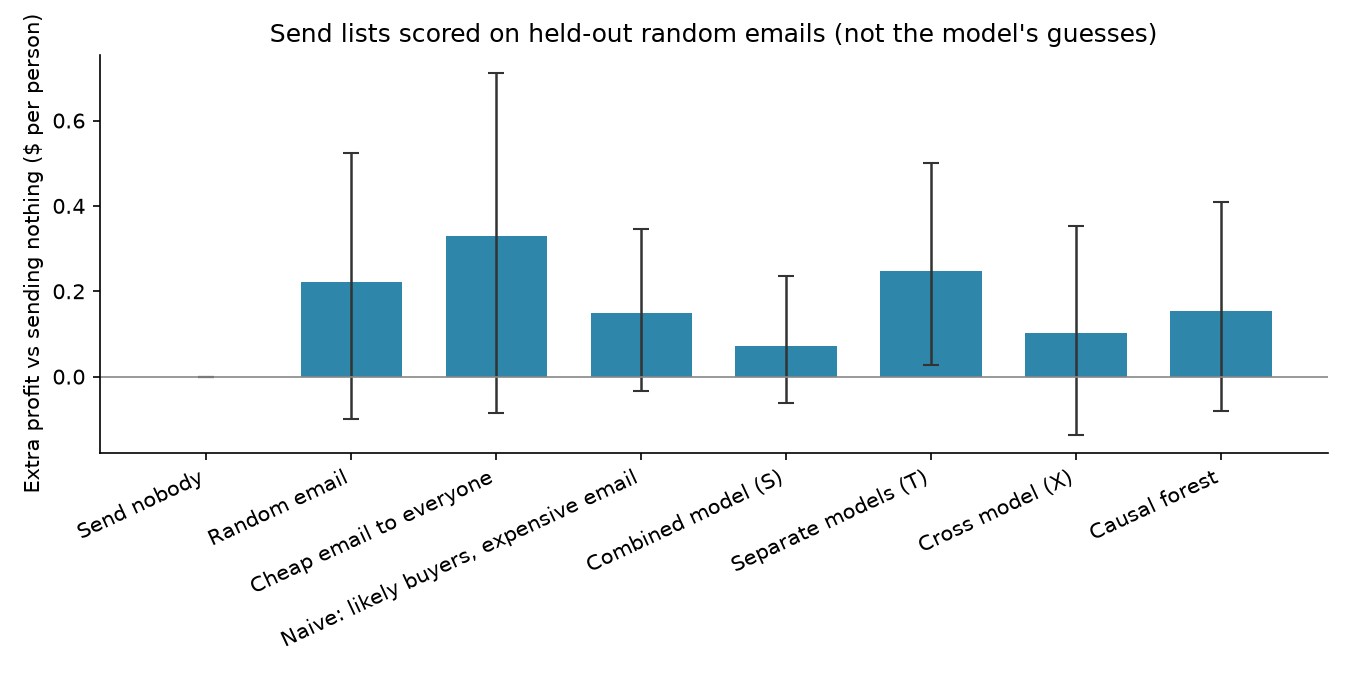
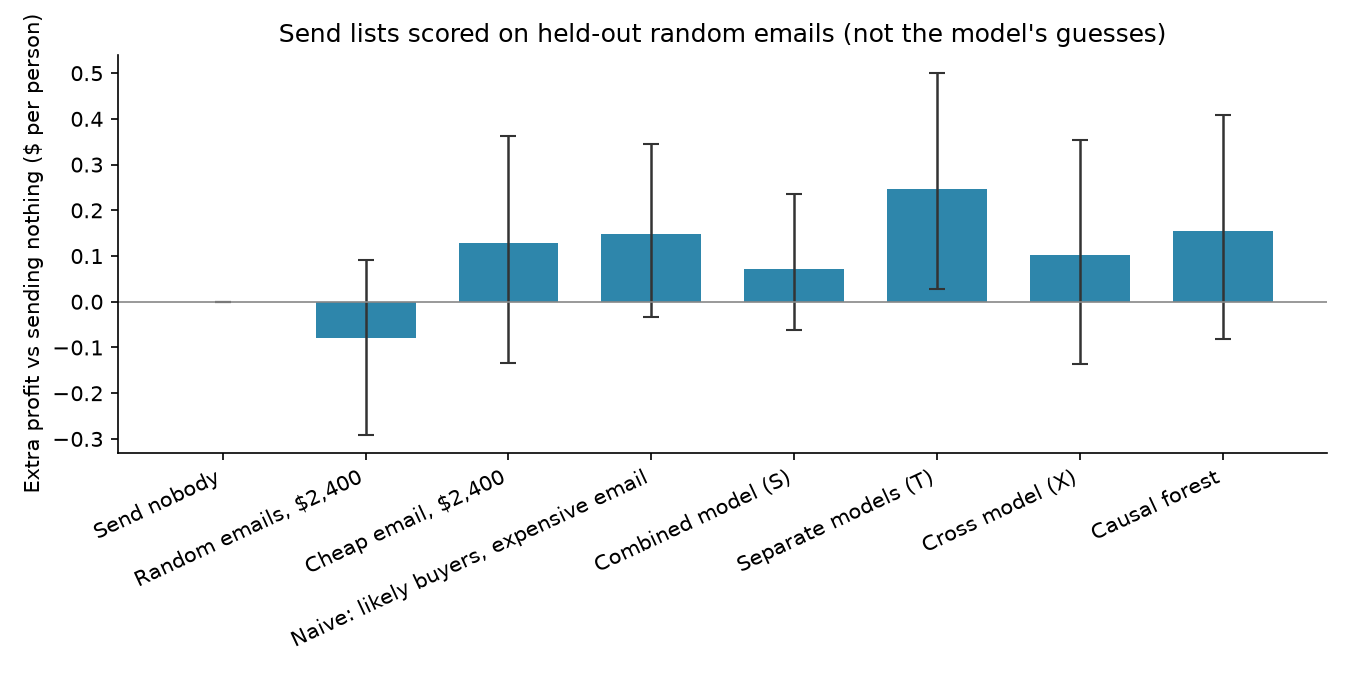
Compare every send list under the same ,400 budget

diff --git a/src/causal_uplift/report.py b/src/causal_uplift/report.py
@@ -8,7 +8,11 @@ from pathlib import Path
 import pandas as pd
 
 from causal_uplift.allocation import allocate_from_result, allocation_summary
-from causal_uplift.baselines import naive_propensity_policy
+from causal_uplift.baselines import (
+    cheap_until_budget,
+    naive_propensity_policy,
+    random_until_budget,
+)
 from causal_uplift.data import FIGURES_DIR, PROJECT_ROOT, load_and_split
 from causal_uplift.economics import (
     ARM_CONTROL,
@@ -17,15 +21,15 @@ from causal_uplift.economics import (
     budget_for_n,
 )
 from causal_uplift.effects import fit_all_cate_models
-from causal_uplift.grading import PolicyEvaluator, constant_policy, random_policy
+from causal_uplift.grading import PolicyEvaluator, constant_policy
 from causal_uplift.plots import save_money_chart
 
 METRICS_PATH = PROJECT_ROOT / "results" / "metrics.json"
 
 POLICY_LABELS = {
     "treat_nobody": "Send nobody",
-    "random": "Random email",
-    "always_womens": "Cheap email to everyone",
+    "random": "Random emails, $2,400",
+    "cheap": "Cheap email, $2,400",
     "naive": "Naive: likely buyers, expensive email",
     "uplift_s_learner": "Combined model (S)",
     "uplift_t_learner": "Separate models (T)",
@@ -36,7 +40,7 @@ POLICY_LABELS = {
 CHART_ORDER = [
     "treat_nobody",
     "random",
-    "always_womens",
+    "cheap",
     "naive",
     "uplift_s_learner",
     "uplift_t_learner",
@@ -85,8 +89,8 @@ def write_report(
 
     policies = {
         "treat_nobody": constant_policy(len(grade), ARM_CONTROL),
-        "random": random_policy(len(grade)),
-        "always_womens": constant_policy(len(grade), ARM_WOMENS),
+        "random": random_until_budget(len(grade), budget),
+        "cheap": cheap_until_budget(len(grade), budget),
         "naive": naive_propensity_policy(build, grade),
     }
     for name, cate in cates.items():
@@ -107,7 +111,7 @@ def write_report(
                 "n_mens": mix["n_mens"],
                 "n_control": mix["n_control"],
                 "spent": mix["spent"],
-                "budget_constrained": name in {"naive"} or name.startswith("uplift_"),
+                "budget_constrained": name != "treat_nobody",
             }
         )
         rows.append(scored)

diff --git a/src/causal_uplift/baselines.py b/src/causal_uplift/baselines.py
@@ -60,6 +60,48 @@ def naive_propensity_policy(
     return policy
 
 
+def cheap_until_budget(
+    n: int,
+    budget: float | None = None,
+    random_state: int = RANDOM_STATE,
+) -> np.ndarray:
+    """Send the cheap women's email until the budget is gone. Same pot as the models."""
+    remaining = float(budget if budget is not None else budget_for_n(n))
+    policy = np.full(n, ARM_CONTROL, dtype=object)
+    rng = np.random.default_rng(random_state)
+    for i in rng.permutation(n):
+        cost = COSTS[ARM_WOMENS]
+        if cost > remaining + 1e-9:
+            break
+        policy[i] = ARM_WOMENS
+        remaining -= cost
+    return policy
+
+
+def random_until_budget(
+    n: int,
+    budget: float | None = None,
+    random_state: int = RANDOM_STATE,
+) -> np.ndarray:
+    """Walk people in random order; pick men's or women's at random if it still fits."""
+    remaining = float(budget if budget is not None else budget_for_n(n))
+    policy = np.full(n, ARM_CONTROL, dtype=object)
+    rng = np.random.default_rng(random_state)
+    paid = [ARM_WOMENS, ARM_MENS]
+    for i in rng.permutation(n):
+        rng.shuffle(paid)
+        first, second = paid
+        if COSTS[first] <= remaining + 1e-9:
+            policy[i] = first
+            remaining -= COSTS[first]
+        elif COSTS[second] <= remaining + 1e-9:
+            policy[i] = second
+            remaining -= COSTS[second]
+        if remaining + 1e-9 < min(COSTS[ARM_WOMENS], COSTS[ARM_MENS]):
+            break
+    return policy
+
+
 def policy_cost(policy: np.ndarray) -> float:
     return float(sum(COSTS[a] for a in policy))
 

diff --git a/tests/test_baselines.py b/tests/test_baselines.py
@@ -1,8 +1,14 @@
 """Naive spend-propensity targeting, graded honestly."""
 
-from causal_uplift.baselines import naive_propensity_policy, policy_cost, policy_mix
+from causal_uplift.baselines import (
+    cheap_until_budget,
+    naive_propensity_policy,
+    policy_cost,
+    policy_mix,
+    random_until_budget,
+)
 from causal_uplift.data import load_and_split
-from causal_uplift.economics import ARM_CONTROL, ARM_MENS, budget_for_n
+from causal_uplift.economics import ARM_CONTROL, ARM_MENS, ARM_WOMENS, COSTS, budget_for_n
 from causal_uplift.grading import PolicyEvaluator
 
 
@@ -28,3 +34,19 @@ def test_naive_policy_is_gradable():
     assert ARM_MENS in mix.index
     # A finite number with a CI — not a circular Σ predicted uplift.
     assert result.ipw_ci_low < result.ipw_ci_high
+
+
+def test_cheap_and_random_respect_the_same_budget():
+    _, grade = load_and_split()
+    n = len(grade)
+    budget = budget_for_n(n)
+    cheap = cheap_until_budget(n, budget)
+    random = random_until_budget(n, budget)
+
+    assert policy_cost(cheap) <= budget + 1e-9
+    assert policy_cost(random) <= budget + 1e-9
+    assert (cheap == ARM_WOMENS).sum() == round(budget / COSTS[ARM_WOMENS])
+    assert (cheap == ARM_MENS).sum() == 0
+    assert (random == ARM_WOMENS).any()
+    assert (random == ARM_MENS).any()
+    assert (random == ARM_CONTROL).any()

diff --git a/README.md b/README.md
@@ -1,43 +1,46 @@
 # Causal Uplift + Budget Allocation
 
-A company can send each customer a **men’s-product email** ($0.50), a **women’s-product email** ($0.20), or nothing. There is not enough money to give everyone the expensive one. This project:
+A marketing team has a **limited budget**. The classic question is not “who is likely to buy?” It is “who should we contact so that each dollar of send cost causes the most leftover profit?” People who were going to buy anyway waste the budget. People who only buy because of the message are the ones worth paying for. That difference — extra sales *caused* by the contact — is **causal uplift**. This project estimates that extra, turns it into a send list under a hard budget, and grades the list with real experimental outcomes instead of the model’s own guesses.
 
-1. Estimates **who actually spends more because of which email** (not who was going to buy anyway).
-2. Spends a **fixed budget** where each dollar of send cost is expected to cause the most leftover profit.
-3. Grades every send list with **held-out random emails and real spending**, not the model’s own guesses.
-
-Public data: Kevin Hillstrom’s MineThatData email experiment (~64k customers, random 1/3 assignment). Economics are imposed in code (`$0.20` / `$0.50` send costs; budget = 15% of “men’s email to everyone,” **$2,400** on a 32k holdout). Choices and grading method: [METHODS.md](METHODS.md).
+The specific setting is Kevin Hillstrom’s MineThatData email experiment: about 64,000 customers randomly assigned, one-third each, to a **men’s-product email**, a **women’s-product email**, or **nothing**. We impose send costs the raw file does not have: **$0.50** for the men’s email, **$0.20** for the women’s email. On a 32,000-person holdout, the budget is **$2,400** — 15% of what it would cost to send the expensive email to everyone — so the plan has to choose. Details: [METHODS.md](METHODS.md).
 
 ---
 
 ## The money chart
 
-Extra profit **per person vs sending nobody**, averaged over the whole 32k holdout (including people we do not email). Bars are the honest score; whiskers are a 95% range. Almost everyone spends $0, so the ranges are wide.
+Each bar answers the same question, under the same **$2,400** cap: **if we had followed this send list on the 32,000-person holdout, how much extra leftover profit would we have made per person, compared with emailing nobody?** Leftover profit is extra dollars spent minus send cost. People we skip count as $0, so the average is over the whole list. Whiskers are a 95% range. Almost everyone spends $0 after the campaign, so the ranges are wide.
 
 ![Honest extra profit by send list](results/figures/money_chart.png)
 
-“Cheap email to everyone” and “random email” are **not** under the $2,400 cap. They are reference plans. Everything labeled naive or “model” spends essentially the full **$2,400**.
+Every plan except “send nobody” spends the full $2,400. The first two rivals do not use a model:
+
+- **Random emails, $2,400** — walk the list in random order; send men’s or women’s at random if it still fits. About 3,400 of each. Slightly **below** nobody on this split; the range includes $0.
+- **Cheap email, $2,400** — women’s email to the 12,000 people the budget can buy, no targeting. About **13 cents** a person; the range includes $0.
+
+The rest try to pick *who* gets which email. The tallest of those is the separate-models (T) list, about **25 cents** a person. That is the same budget as blasting 12,000 cheap emails, not a bigger pot.
 
 ---
 
 ## Iteration log
 
-**Naive plan.** Ignore which email was sent. Predict who is likely to spend anyway. Blast the expensive men’s email at those people until the budget runs out: **4,800** contacts, **$0.15** extra profit per person. The range **includes $0**. Roughly break-even: paying to email people who were going to buy anyway.
+**Dumb plans that still spend $2,400.** Random mix: slightly negative. Cheap blast: 12,000 women’s emails, **$0.13**. Naive: ignore which email was sent, predict who will spend anyway, blast the expensive men’s email until the money runs out — **4,800** contacts, **$0.15**. The range includes $0. Roughly break-even: paying to email people who were going to buy anyway.
 
 **Effect-based plans.** Fit models on the other half of the data that estimate extra dollars from each email vs nothing. Rank person–email pairs by leftover profit per dollar of send cost. Skip emails whose leftover is zero or negative. Each person gets at most one email.
 
 | Plan | Women’s | Men’s | Left alone | Extra profit / person | 95% range |
 |---|---:|---:|---:|---:|---|
 | Send nobody | 0 | 0 | 32,000 | $0.00 | — |
+| Random emails, $2,400 | 3,377 | 3,449 | 25,174 | −$0.08 | includes $0 |
+| Cheap email, $2,400 | 12,000 | 0 | 20,000 | $0.13 | includes $0 |
 | Naive | 0 | 4,800 | 27,200 | $0.15 | −$0.03 to $0.35 |
 | Combined model (S) | 2,140 | 3,944 | 25,916 | $0.07 | includes $0 |
 | Separate models (T) | 5,972 | 2,411 | 23,617 | $0.25 | $0.03 to $0.50 |
 | Cross model (X) | 5,890 | 2,444 | 23,666 | $0.10 | includes $0 |
 | Causal forest | 2,697 | 3,721 | 25,582 | $0.15 | includes $0 |
 
-**What the honest grade said.** The T-learner mix is the only budgeted plan whose range sits entirely above zero on this split. It is about **25 cents** above nobody, versus **15 cents** for naive — only about **10 cents** above the dumb plan, and the ranges overlap. S, X, and the forest look like naive once you stop trusting the models’ own scores. Do not crown a winner.
+**What the honest grade said.** T is the only plan whose range sits entirely above zero on this split. It is about **25 cents** above nobody, versus **15 cents** for naive and **13 cents** for the cheap blast — only about **10 cents** above the dumb plans, and the ranges overlap. S, X, and the forest look like naive once you stop trusting the models’ own scores. Do not crown a winner.
 
-The T-learner edge is mostly **using the cheap email**: ~8,400 contacts for the same $2,400, versus 4,800 expensive emails. Targeting cannot invent a bigger effect than the experiment has (men’s email is only about 60–80 cents extra spend before the 50-cent cost).
+The T edge is mostly **using both emails on purpose**: ~8,400 contacts for the same $2,400, versus 4,800 expensive emails (naive) or 12,000 untargeted cheap ones. Targeting cannot invent a bigger effect than the experiment has (men’s email is only about 60–80 cents extra spend before the 50-cent cost).
 
 Exact numbers: [results/metrics.json](results/metrics.json).
 

diff --git a/METHODS.md b/METHODS.md
@@ -39,7 +39,13 @@ Men’s email works across the board. Women’s email mainly competes among peop
 
 That ranking is the exact rule if you could send a fraction of an email. Here each send is all-or-nothing, so the ranking is a fast heuristic. An exact solver on a small slice matches when only one email is eligible, and is only a couple percent better when both compete. Reported lists use the ranking.
 
-A **naive** list ignores which email was sent, predicts who will spend anyway, and blasts the expensive email until the budget is gone. That is the floor.
+Simple lists that also spend the same $2,400, so they are fair rivals:
+
+- **Cheap until the money runs out** — women’s email to as many people as $2,400 buys (12,000), no targeting.
+- **Random until the money runs out** — walk the list in random order and pick men’s or women’s at random if it still fits.
+- **Naive** — ignore which email was sent, predict who will spend anyway, blast the expensive email until the budget is gone.
+
+The model lists have to beat those, not an uncapped blast of the cheap email to the whole file.
 
 ## How a send list is graded
 
@@ -51,9 +57,7 @@ Never by adding up the same model’s own extra-spend guesses. On the **grade** 
 
 A spending predictor trained on rotating slices of the grade set is used only to *correct* that estimate (doubly robust). It is not a targeting model grading its own list. Ranges come from resampling the grade set.
 
-Sanity checks: nobody scores $0; always men’s / always women’s recover the measured average extra spend minus cost; a random list scores a mix of those two nets, not automatically $0.
-
-“Cheap email to everyone” and “random email” are **not** under the $2,400 cap. They are reference plans.
+Sanity checks on the grader (not the money chart): nobody scores $0; always men’s / always women’s recover the measured average extra spend minus cost. Those “always” plans are uncapped on purpose — they check the scoring math, not the budget contest.
 
 ## What is not claimed
 
